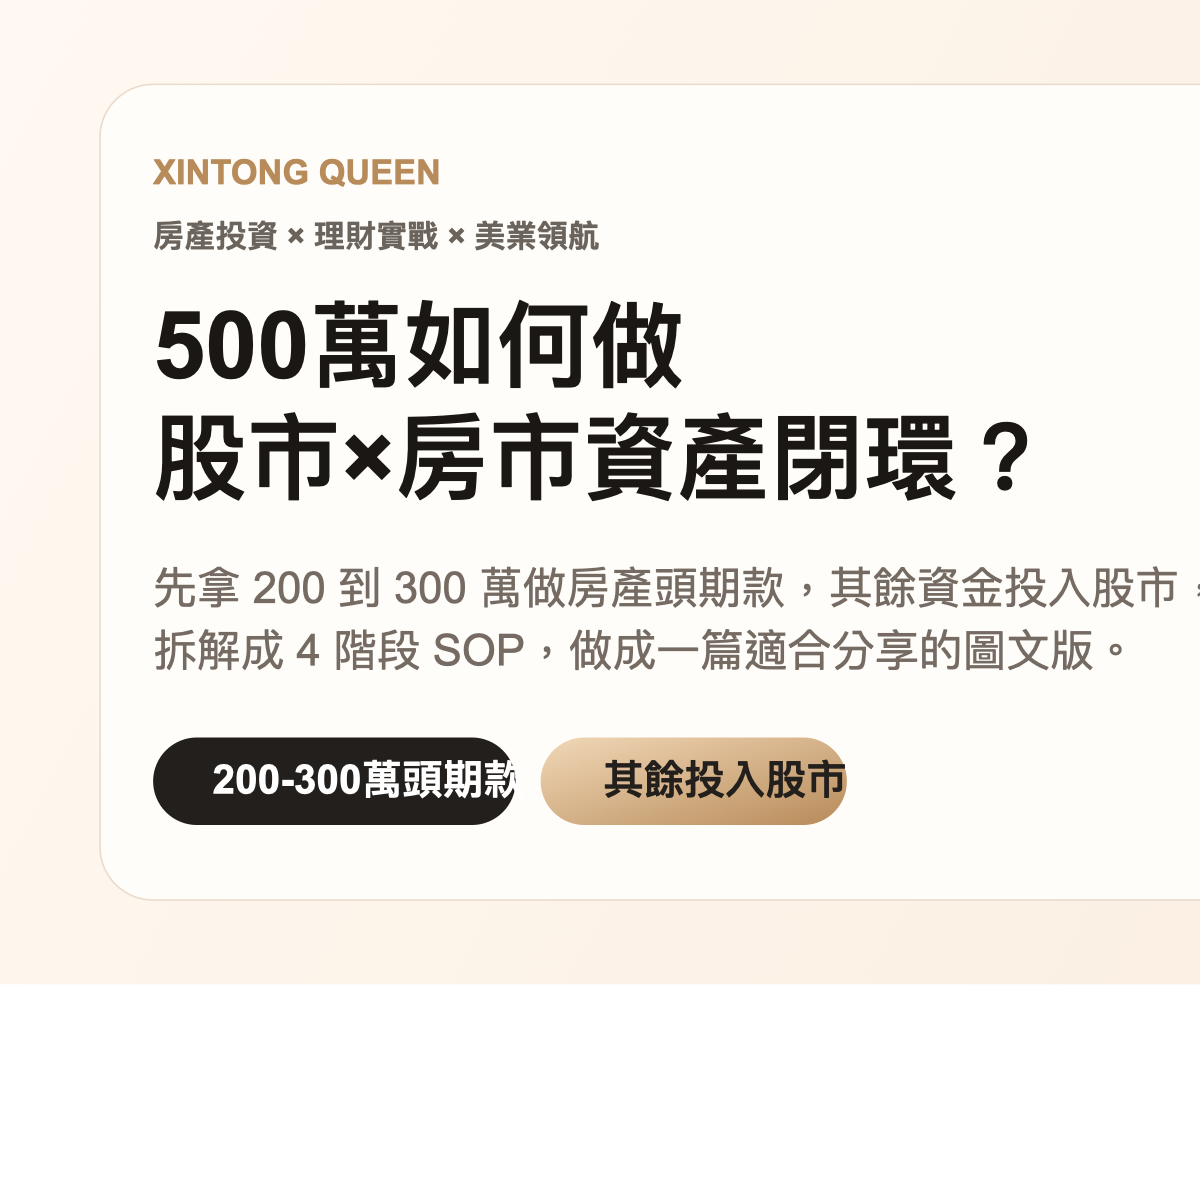
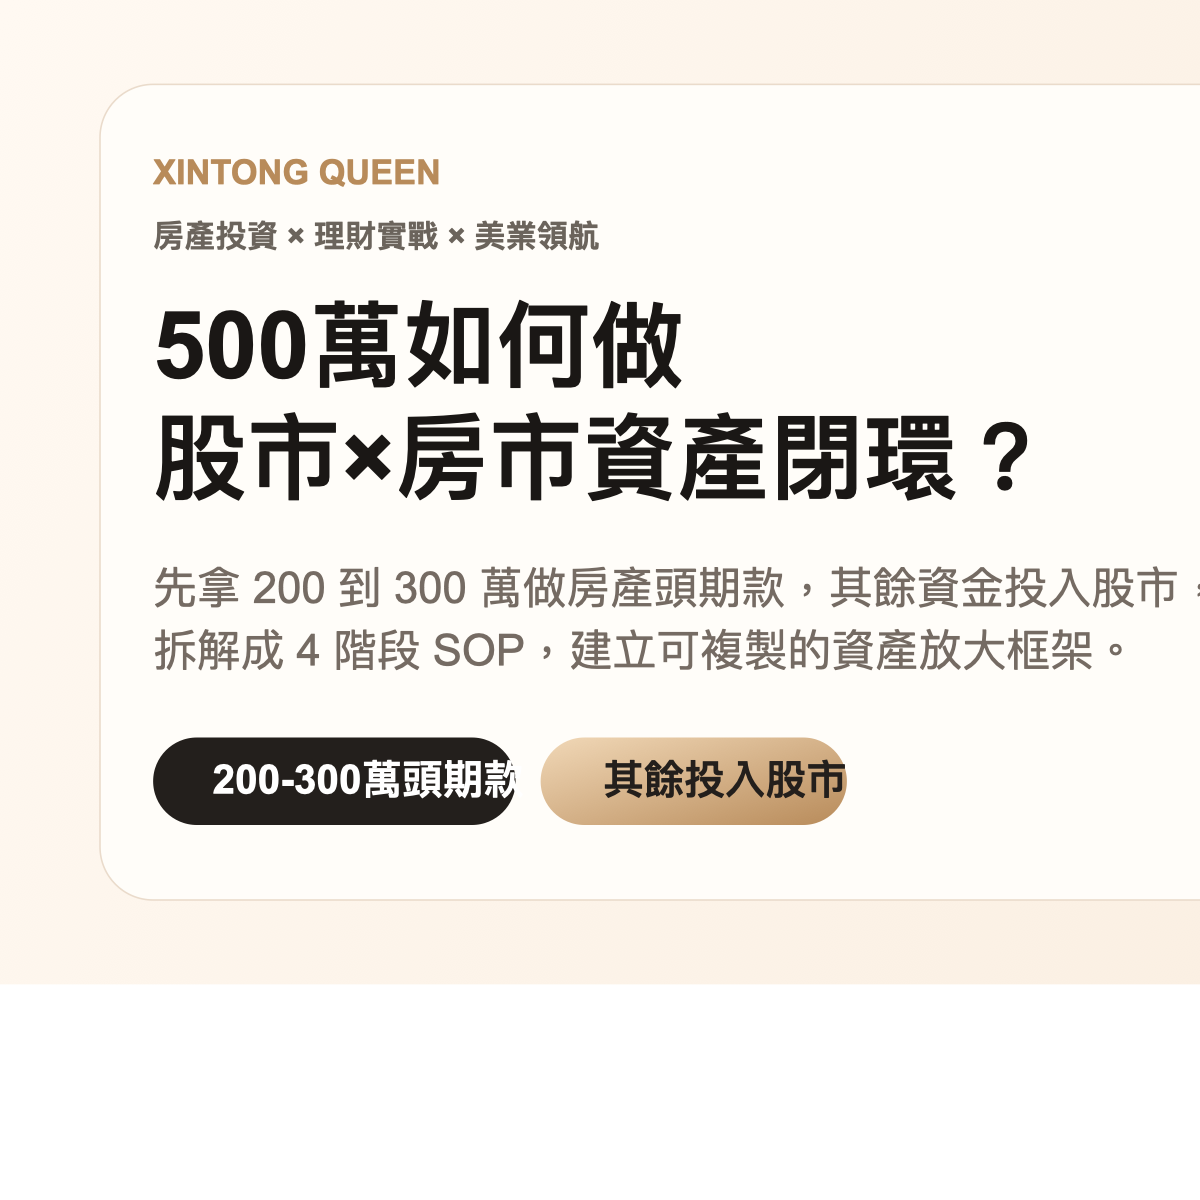
Remove chat-like phrasing from public page

Changed region(s): [[0.4625, 0.5242, 0.925, 0.555]]

diff --git a/index.html b/index.html
@@ -332,7 +332,7 @@
 
       <span class="pill">股市 × 房市資產閉環</span>
       <h1>500萬如何做股市×房市資產閉環？</h1>
-      <p class="lead">把 500 萬拆成兩部分，2 到 300 萬拿來做房產頭期款，其餘資金投入股市，形成一套很多投資圈會討論的「資產放大 SOP」。這篇幫你拆成超好懂版本。</p>
+      <p class="lead">把 500 萬拆成兩部分，2 到 300 萬拿來做房產頭期款，其餘資金投入股市，形成一套很多投資圈會討論的資產放大 SOP。</p>
       <div class="stats">
         <div class="stat"><strong>200-300萬</strong><span class="muted">房產頭期款</span></div>
         <div class="stat"><strong>其餘資金</strong><span class="muted">股市配置</span></div>
